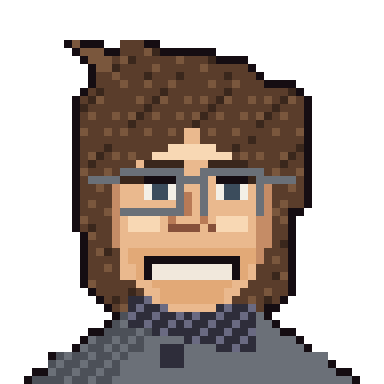
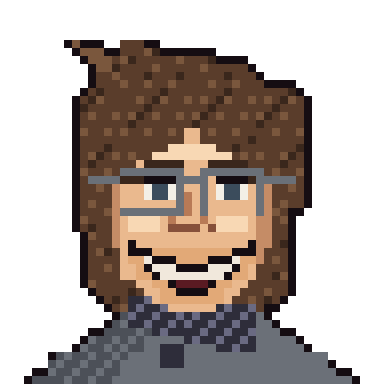
Skip: big upturned smile outlined in black

Changed region(s): [[0.3125, 0.625, 0.6875, 0.7812]]

diff --git a/src/characters.js b/src/characters.js
@@ -188,8 +188,14 @@ function paintDealoneFull(cv, st = {}) {
   eyesAt(P, 20); noseAt(P, 21); px(21, 26, 'skinDk', 1, 1); px(27, 26, 'skinDk', 1, 1);
   for (const gx of [14, 26]) { px(gx, 18, '#6a7078', 9, 1); px(gx, 24, '#6a7078', 9, 1); px(gx, 18, '#6a7078', 1, 7); px(gx + 8, 18, '#6a7078', 1, 7); }
   px(23, 19, '#6a7078', 3, 1); px(10, 19, '#6a7078', 4, 1); px(35, 19, '#6a7078', 4, 1);
-  // big smile with teeth
-  px(18, 30, 'ol', 13, 1); px(19, 31, 'tooth', 11, st.talk ? 1 : 2); if (st.talk) px(19, 32, 'mouth', 11, 2); px(20, 33, 'ol', 9, 1); px(18, 31, 'ol', 1, 3); px(30, 31, 'ol', 1, 3);   // upper line, white teeth, dark line below, dark corners px(17, 29, 'ol', 1, 1); px(31, 29, 'ol', 1, 1);
+  // big upward-curving smile: black outline all round, corners raised, white teeth along the top, dark mouth below
+  for (let x = 16; x <= 32; x++) {
+    const dx = Math.abs(x - 24), yt = 31 - Math.floor(dx / 3), yb = 35 + (st.talk ? 1 : 0) - Math.floor(dx * dx / 8);
+    if (yb < yt) continue;
+    px(x, yt, 'ol'); px(x, yb, 'ol');
+    for (let y = yt + 1; y < yb; y++) px(x, y, y <= yt + 2 ? 'tooth' : '#5a1a22');
+  }
+  px(16, 28, 'ol', 1, 2); px(32, 28, 'ol', 1, 2);   // little upturned corners
   talkAt(P, 19, 31, 11);
   P.outline();
 }

diff --git a/src/version.js b/src/version.js
@@ -1,2 +1,2 @@
 // generated by tools/stamp.mjs
-export const BUILD = { n: 86, time: '2026-10-14T11:49:37.011Z' };
+export const BUILD = { n: 87, time: '2026-10-14T11:52:11.115Z' };
